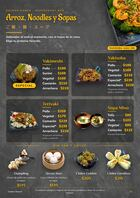
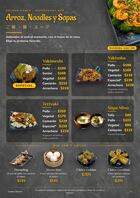
Fotos nuevas: Dumpling y Chiles Gorditos
Claude-Session: https://claude.ai/code/session_019koabpyAAMnZPtrZYFtJVk

diff --git a/index.html b/index.html
@@ -53,10 +53,10 @@ for(let i=1;i<=N;i++){
   const d=document.createElement('div');
   d.className='page'+((i===1||i===N)?' hard':'');
   if(i===1||i===N) d.setAttribute('data-density','hard');
-  d.innerHTML=`<img src="p${pad(i)}.jpg?v=1794816830" alt="Página ${i} del menú Golden Ramen" ${i>4?'loading="lazy"':''}>`;
+  d.innerHTML=`<img src="p${pad(i)}.jpg?v=1794817048" alt="Página ${i} del menú Golden Ramen" ${i>4?'loading="lazy"':''}>`;
   book.appendChild(d);
   const t=document.createElement('button'); t.className='th'; t.setAttribute('aria-label','Ir a la página '+i);
-  t.innerHTML=`<img src="t${pad(i)}.jpg?v=1794816830" alt="">`; t.onclick=()=>pf&&pf.flip(i-1);
+  t.innerHTML=`<img src="t${pad(i)}.jpg?v=1794817048" alt="">`; t.onclick=()=>pf&&pf.flip(i-1);
   thumbs.appendChild(t);
 }
 let pf=null; let lastW=innerWidth; addEventListener('resize',()=>{ if(Math.abs(innerWidth-lastW)>80){ location.reload(); } });
